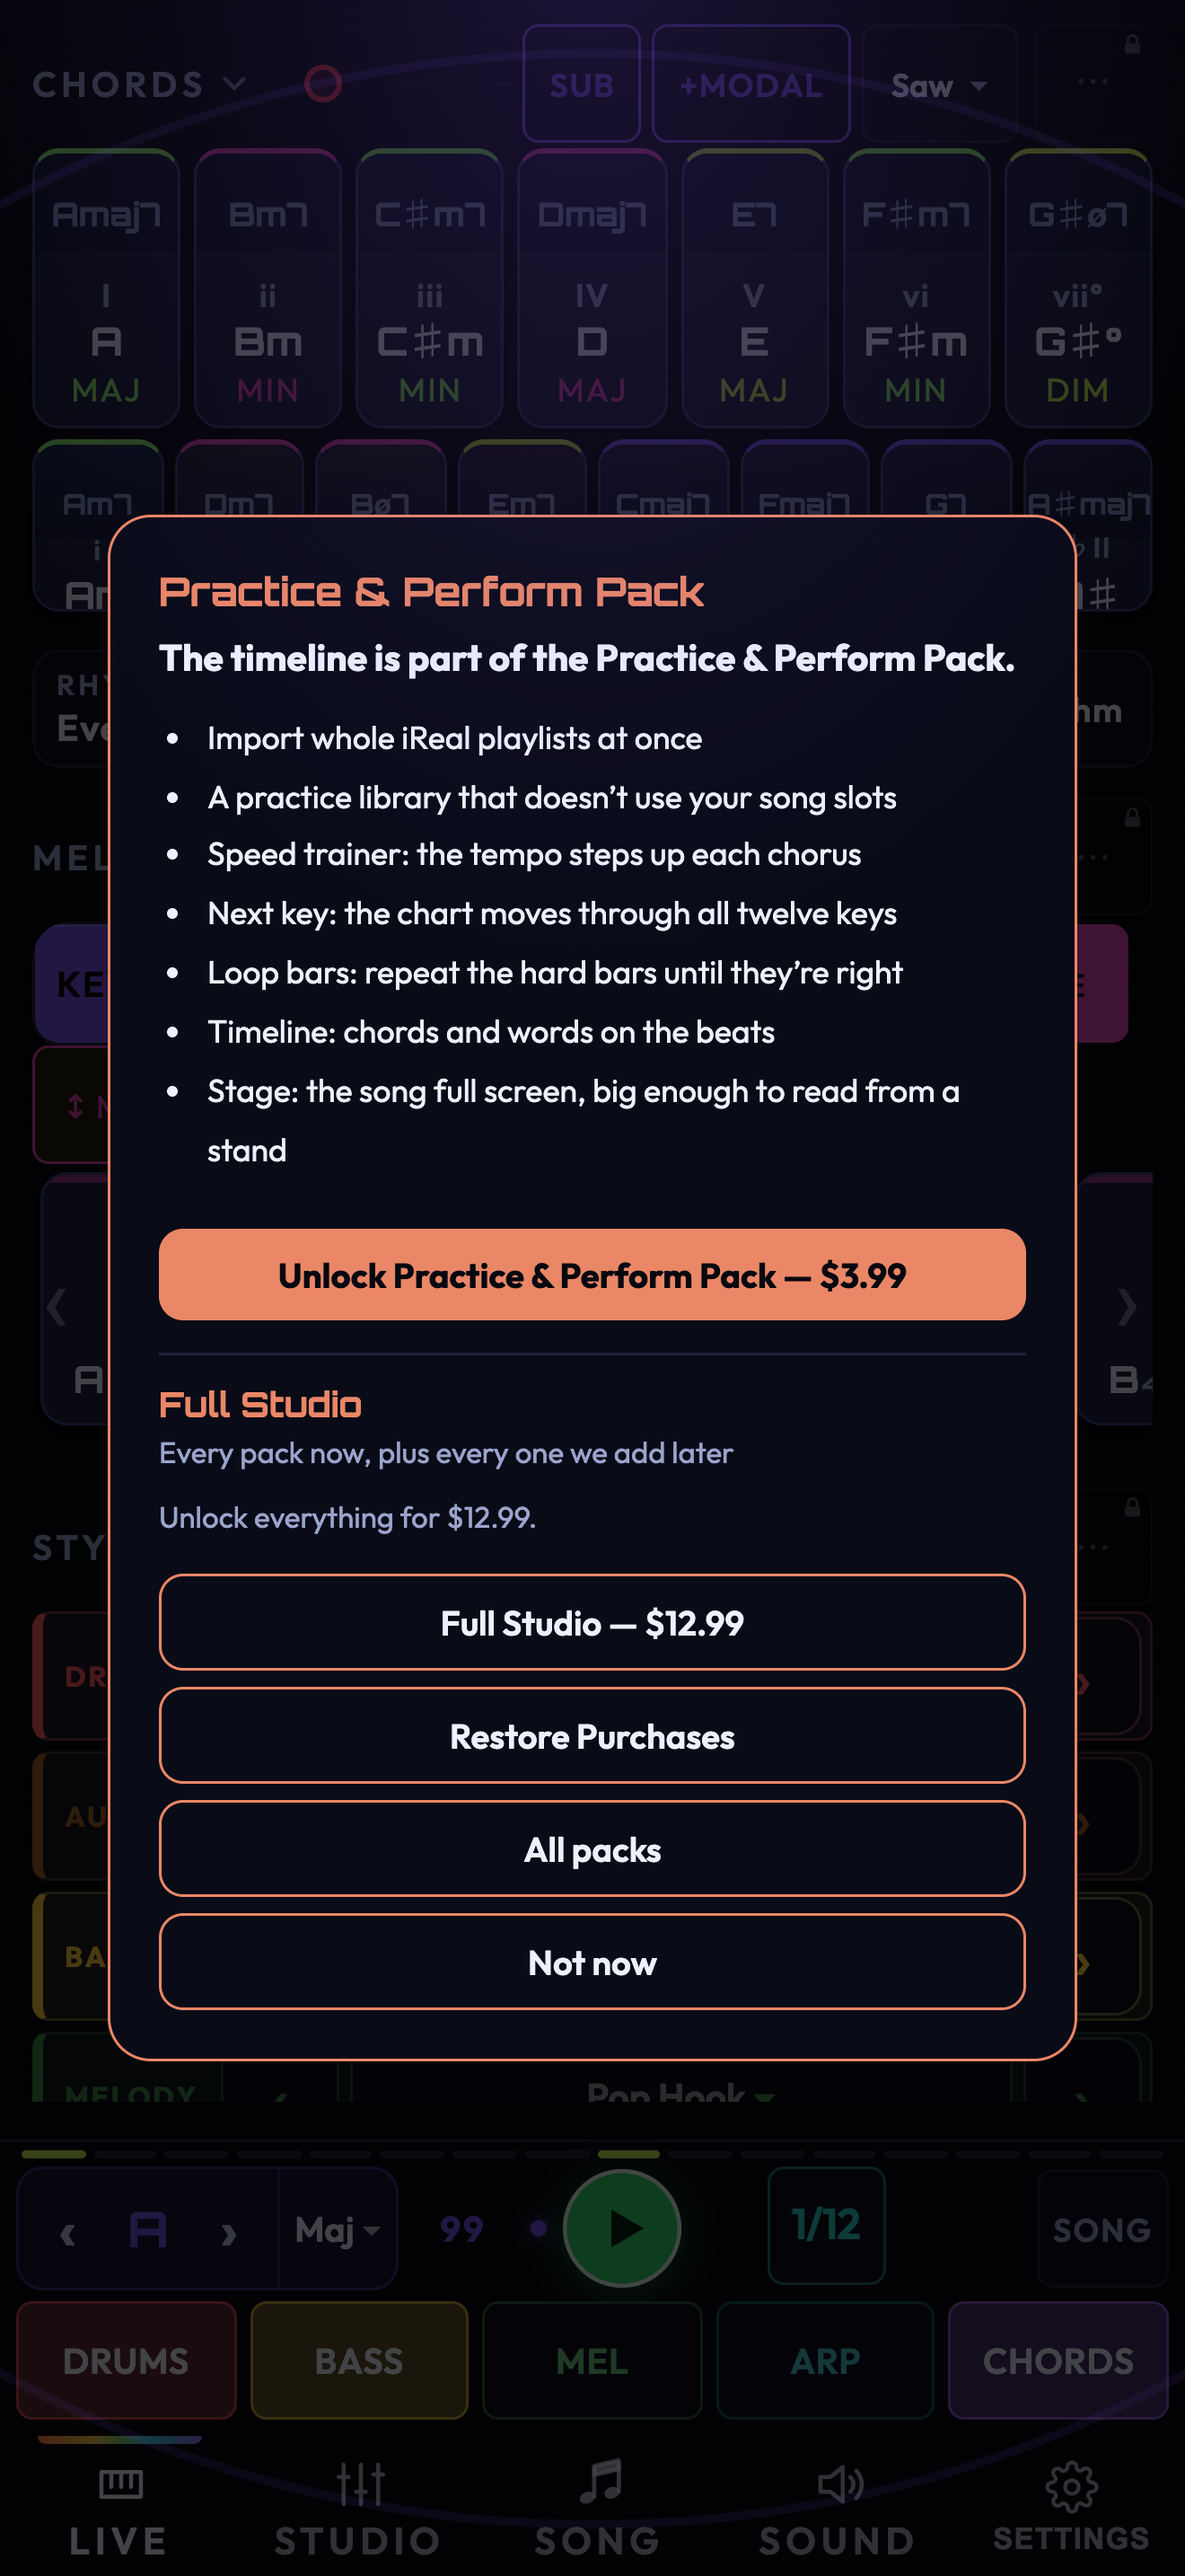
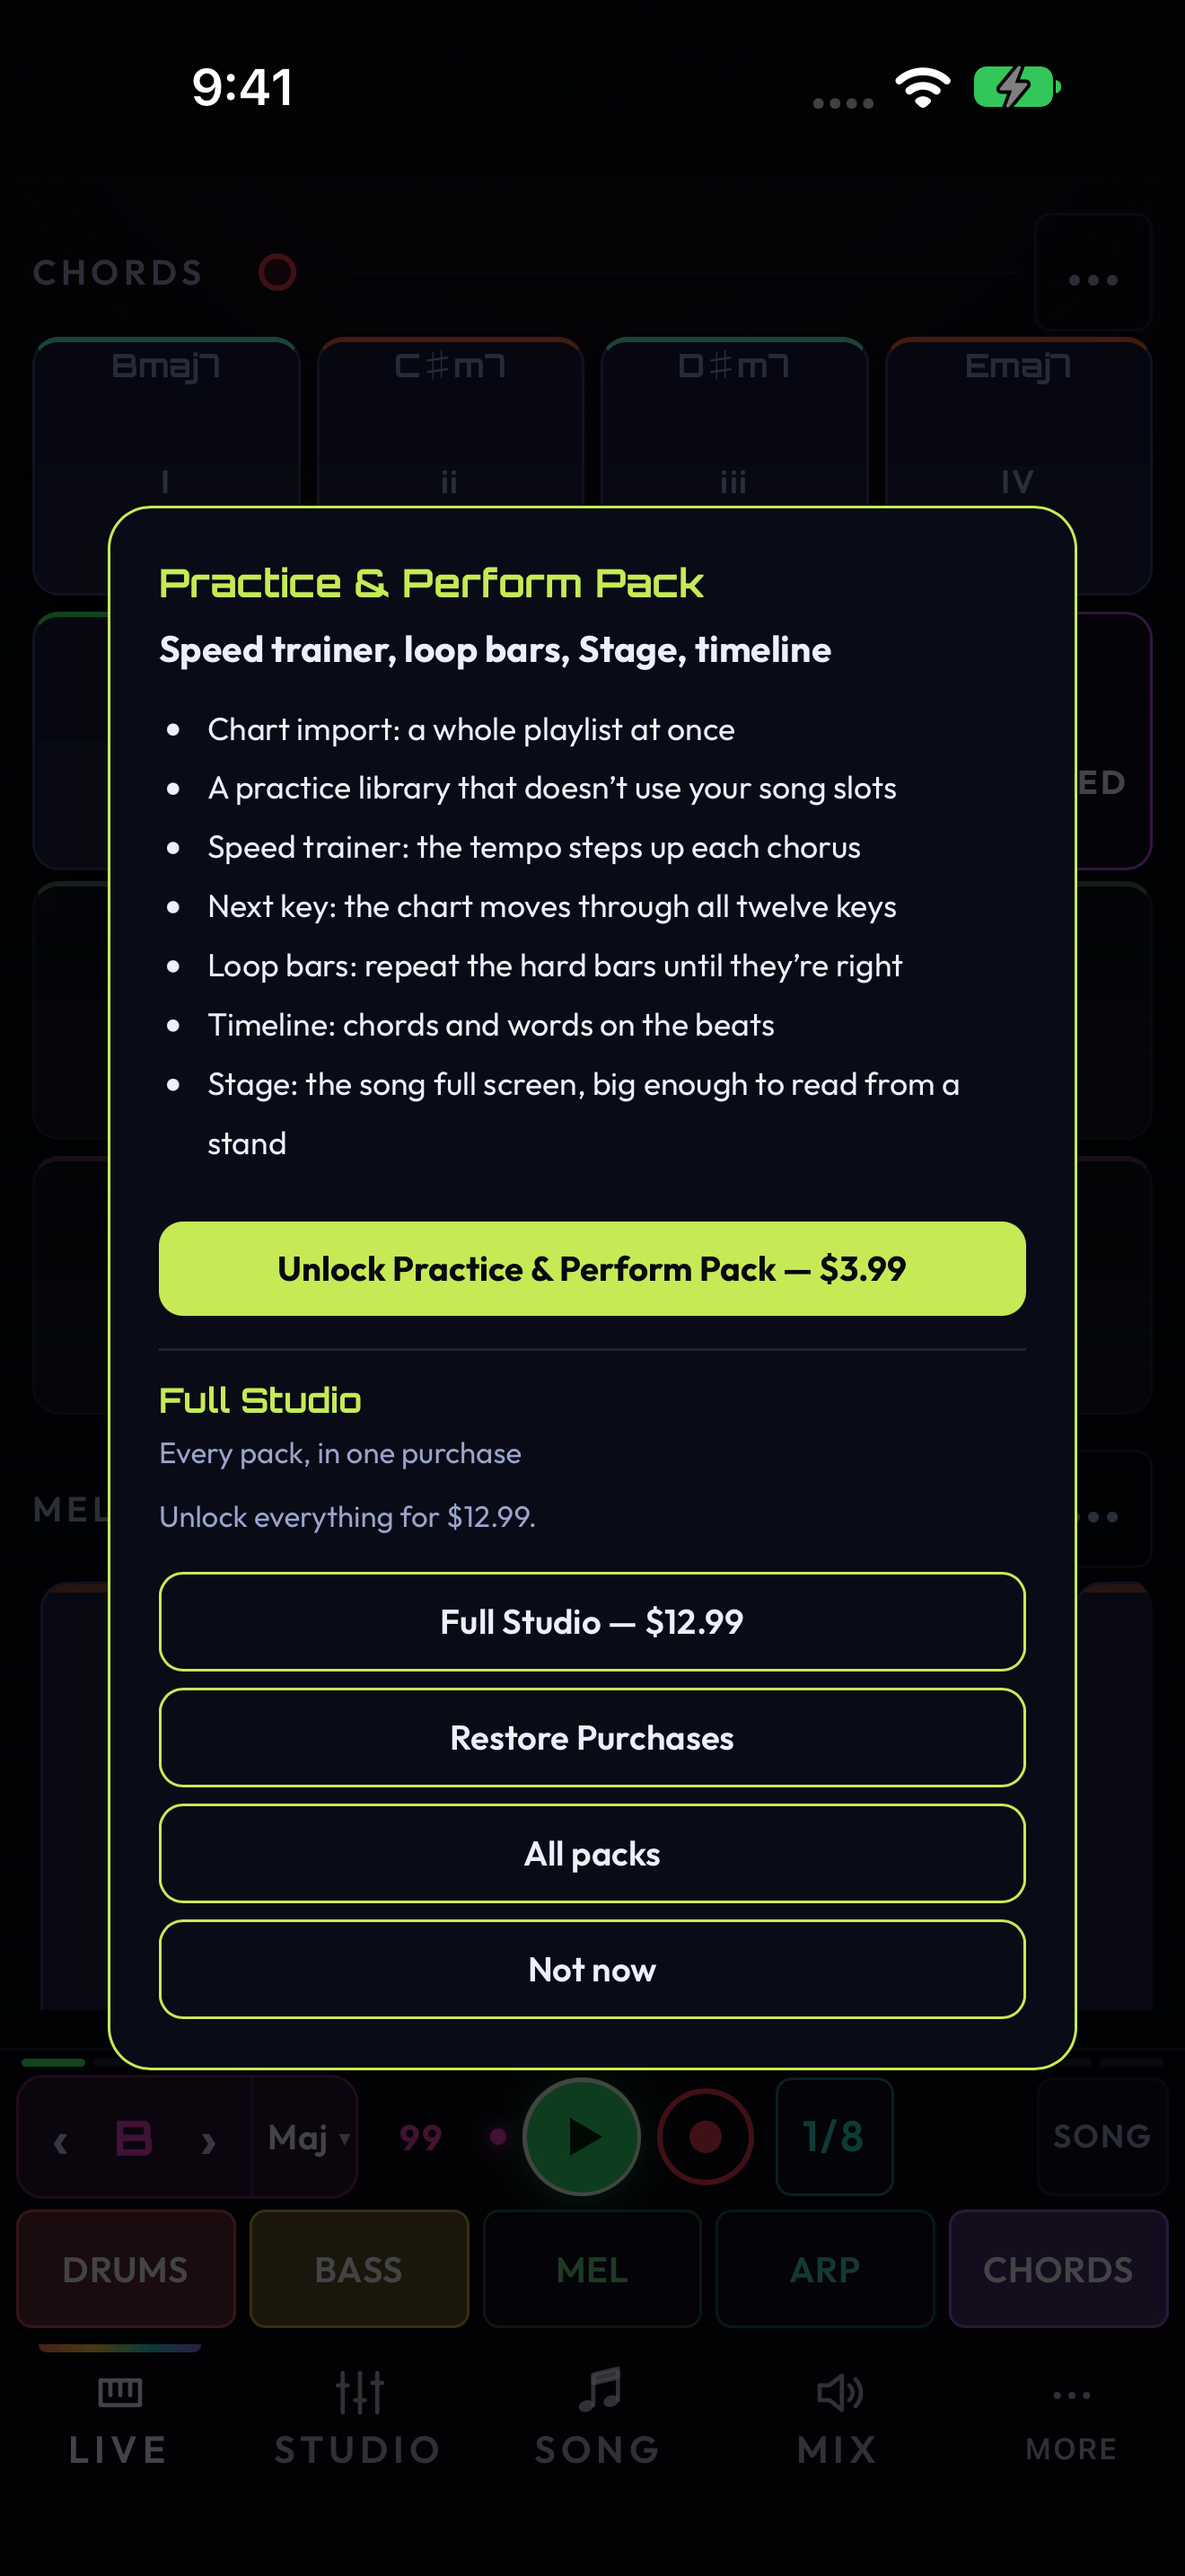
Refresh all eleven IAP review screenshots for the current packs
Native iPhone Simulator captures, 1320 x 2868 and opaque, with current Studio EQ, Theory and Practice wording. All eleven hashes differ. Ownership cases and sheet text are recorded; the capture-only price provider uses the documented launch prices and never changes the shipped app.

Codex-Session: https://claude.ai/code/session_01a1ec92-f009-7133-ae05-04a380ca0da8

diff --git a/docs/app-store/screenshots/iap/source/capture.js b/docs/app-store/screenshots/iap/source/capture.js
@@ -1,0 +1,22 @@
+// Capture-only automation appended to a disposable Debug Simulator bundle. Never included by the app build.
+(async function(){
+ var wait=ms=>new Promise(r=>setTimeout(r,ms)),pl=modNativePlugin();
+ var log=(event,extra={})=>pl.fileAppend({name:'iap.jsonl',folder:'LayoutCapture',first:event==='boot',data:btoa(unescape(encodeURIComponent(JSON.stringify({event,time:Date.now(),...extra})+'\n')))});
+ try{
+  await log('boot');localStorage.setItem('modo-tour-ch1','1');setModTier('pro');unlockAudio('roll');await wait(9000);stopEverything();liveTab();
+  // App Store Connect launch prices, docs/app-store.md. This changes only this disposable capture bundle's provider.
+  var prices={sampler:5.99,synth:4.99,groove:3.99,theory:3.99,practice:3.99,studio:4.99,sounds:1.99,fullstudio:12.99,from1:10.99,from2:6.99,from3plus:3.99};
+  modBilling.products=()=>Object.fromEntries(Object.entries(prices).map(([key,value])=>[key,{price:'$'+value.toFixed(2),value}]));
+  var cases=STORE_ORDER.map(k=>({key:k,module:k,owned:[]})).concat([
+   {key:'fullstudio',owned:[]},{key:'fullstudio.from1',owned:['groove']},
+   {key:'fullstudio.from2',owned:['groove','sounds']},{key:'fullstudio.from3plus',owned:['groove','sounds','studio']}
+  ]);
+  for(var c of cases){
+   var old=document.getElementById('_pro-sheet');if(old){var close=[...old.querySelectorAll('button')].find(b=>/^(Not now|Close)$/.test(b.textContent));if(close)close.click();}
+   setModOwned(c.owned);proSheet('',c.module||null);await wait(1300);
+   var box=document.querySelector('#_pro-sheet .pro-box');box.scrollTop=0;
+   await log('ready',{file:'Handel.modRiff.'+c.key+'.png',owned:c.owned,text:box.innerText,viewport:[innerWidth,innerHeight],version:MODRIFF_VERSION});await wait(5500);
+  }
+  await log('done');
+ }catch(e){await log('error',{message:String(e),stack:e.stack});}
+})();

diff --git a/docs/app-store/screenshots/iap/source/capture.py b/docs/app-store/screenshots/iap/source/capture.py
@@ -1,0 +1,37 @@
+"""Capture the eleven current review sheets on the dedicated iPhone Simulator."""
+from pathlib import Path
+import subprocess as sp,sys,time,json,shutil,os,plistlib
+ROOT=Path(__file__).resolve().parents[5]
+DEVICE='BB3C29B2-6103-41D5-9324-0EC2850340C6'
+WORK=Path(os.environ.get('MODRIFF_CAPTURE_WORK','/private/tmp/modriff-layout-assets'));APP=WORK/'App.app'
+WORK.mkdir(exist_ok=True)
+def sim(*args):return sp.check_output(['xcrun','simctl',*args],text=True).strip()
+if not APP.exists():shutil.copytree(os.environ['MODRIFF_SIM_APP'],APP)
+for p in (ROOT/'ios/App/App/public').iterdir():
+ dest=APP/'public'/p.name
+ if p.is_dir():shutil.copytree(p,dest,dirs_exist_ok=True)
+ else:shutil.copy2(p,dest)
+with (APP/'public/index.html').open('a') as f:f.write('\n<script>\n'+Path(__file__).with_name('capture.js').read_text()+'\n</script>')
+sim('status_bar',DEVICE,'override','--time','9:41','--batteryState','charged','--batteryLevel','100')
+info=plistlib.loads((APP/'Info.plist').read_bytes())
+for key in ['UISupportedInterfaceOrientations','UISupportedInterfaceOrientations~ipad']:info[key]=['UIInterfaceOrientationPortrait']
+info['UIInterfaceOrientation']='UIInterfaceOrientationPortrait';(APP/'Info.plist').write_bytes(plistlib.dumps(info,fmt=plistlib.FMT_BINARY))
+sim('install',DEVICE,str(APP));data=Path(sim('get_app_container',DEVICE,'Handel.modRiff','data'));log=data/'Documents/LayoutCapture/iap.jsonl'
+if log.exists():log.unlink()
+sim('launch','--terminate-running-process',DEVICE,'Handel.modRiff')
+seen=set();proof=[];deadline=time.time()+150
+while time.time()<deadline:
+ rows=[]
+ if log.exists():
+  for l in log.read_text().splitlines():
+   try:rows.append(json.loads(l))
+   except json.JSONDecodeError:pass
+ for row in rows:
+  if row['event']=='error':raise RuntimeError(row)
+  if row['event']=='ready' and row['file'] not in seen:
+   out=ROOT/'docs/app-store/screenshots/iap'/row['file'];sim('io',DEVICE,'screenshot',str(out));seen.add(row['file']);proof.append(row);print('Captured',row['file'],flush=True)
+  if row['event']=='done':
+   assert len(seen)==11,len(seen)
+   (WORK/'iap-proof.json').write_text(json.dumps(proof,indent=2,ensure_ascii=False));print('All eleven review sheets captured.',flush=True);sys.exit(0)
+ time.sleep(.25)
+raise TimeoutError('Capture did not finish')

diff --git a/docs/app-store.md b/docs/app-store.md
@@ -255,8 +255,7 @@ launch, tap Random, tap play, tap a chord, then `xcrun simctl io <udid> screensh
 Simulator: the shared one gets other sessions' builds installed over it. Driving a new Simulator needs the owner's
 approval in the app once per device.
 
-**IAP review shots** (`screenshots/iap/`, 1320 x 2868) were not retaken here: they are the 6.9.9.3a set. Retake them if
-a pack's copy, price or the sheet changed since (the Theory Pack copy changed at 6.9.9.9.9.9.9.7d).
+**IAP review shots** (`screenshots/iap/`, 1320 x 2868, opaque) were retaken from 1.9.4a: all eleven, including Studio’s EQ, Theory’s pure tuning and Practice’s current playlist-import wording. `verification.json` records each sheet’s text, ownership and image hash; `source/` holds the disposable Simulator capture automation.
 
 There is no Mac set in this folder: the old `mac-16x10-*` files in `v6.9.2/` are the web build in Chrome. Mac App Store
 needs 16:10 shots (2880 x 1800 at 2x, a 1440 x 900 window). `ios/mac-catalyst/run-mac.sh` builds and opens the Mac app, but it
@@ -359,9 +358,7 @@ The descriptions are written to sell, within 45 characters, and each says what t
 not what it is called. Two words are kept out of every field the store shows, because they are
 other companies' trademarks: **iReal** (the Practice & Perform line used to end "iReal batch",
 now "chart import") and **Rhodes** (the Sounds line says "electric piano", as the pack's own list
-does). The pack's list inside the app says "Chart import: a whole playlist at once" (6.9.9.9.9.5), so no
-trademark is named in the sheet either. The `iap/Handel.modRiff.practice.png` review shot was taken before
-that and still shows the old "iReal" bullet: retake it before upload (the line is `MODULE_COPY.practice`).
+does). The pack’s list inside the app and its retaken `iap/Handel.modRiff.practice.png` review shot say "Chart import: a whole playlist at once", so no trademark is named in the sheet either (`MODULE_COPY.practice`).
 
 - **Family Sharing: on for all eleven** (it cannot be turned off once a product is live, and
   mixing on and off is how a family ends up owning half a bundle).
@@ -374,7 +371,7 @@ that and still shows the old "iReal" bullet: retake it before upload (the line i
   eleven different. Upload each under that product's Review Information. Each is the pack's
   sheet over a rolled song, with the store's launch prices filled in; the three Complete Your
   Studio shots come from owning one, two and three packs (Groove; Groove and Sounds; Groove,
-  Sounds and Studio), and `Full Studio` is the All packs screen. They were retaken at 6.9.9.3a
+  Sounds and Studio), and `Full Studio` is the All packs screen. They were retaken at 1.9.4a
   from the web build in a phone-sized browser (not a device) once the descriptions changed, so
   they show the current look and wording. Retake them on a device once a purchase runs, and
   again if a pack's copy, price or the sheet changes.

diff --git a/docs/app-store/screenshots/iap/README.md b/docs/app-store/screenshots/iap/README.md
@@ -1,0 +1,7 @@
+# IAP review screenshots
+
+Eleven distinct native Simulator captures from 1.9.4a, 1320 × 2868, opaque. `verification.json` records the actual sheet text, ownership state and final image hashes. Studio includes EQ; Theory includes pure tuning; Practice uses the current playlist-import wording. The backdrop is the current Live layout.
+
+Launch prices come from the table in `docs/app-store.md` and are supplied only to the disposable capture bundle’s provider. These images verify presentation, not a StoreKit purchase. The upgrade shots own Groove; Groove and Sounds; Groove, Sounds and Studio.
+
+To recapture: build an optimized Debug Simulator app, run `npm run build` and `cap sync ios`, then set `MODRIFF_SIM_APP` to the compiled `App.app` and run `python3 source/capture.py`. It uses only `ss-iPhone18PM`, appends `capture.js` to a disposable bundle under `MODRIFF_CAPTURE_WORK` (default `/private/tmp/modriff-layout-assets`), and replaces these eleven PNGs. Check dimensions and remove alpha before upload; regenerate the verification hashes after that conversion.
